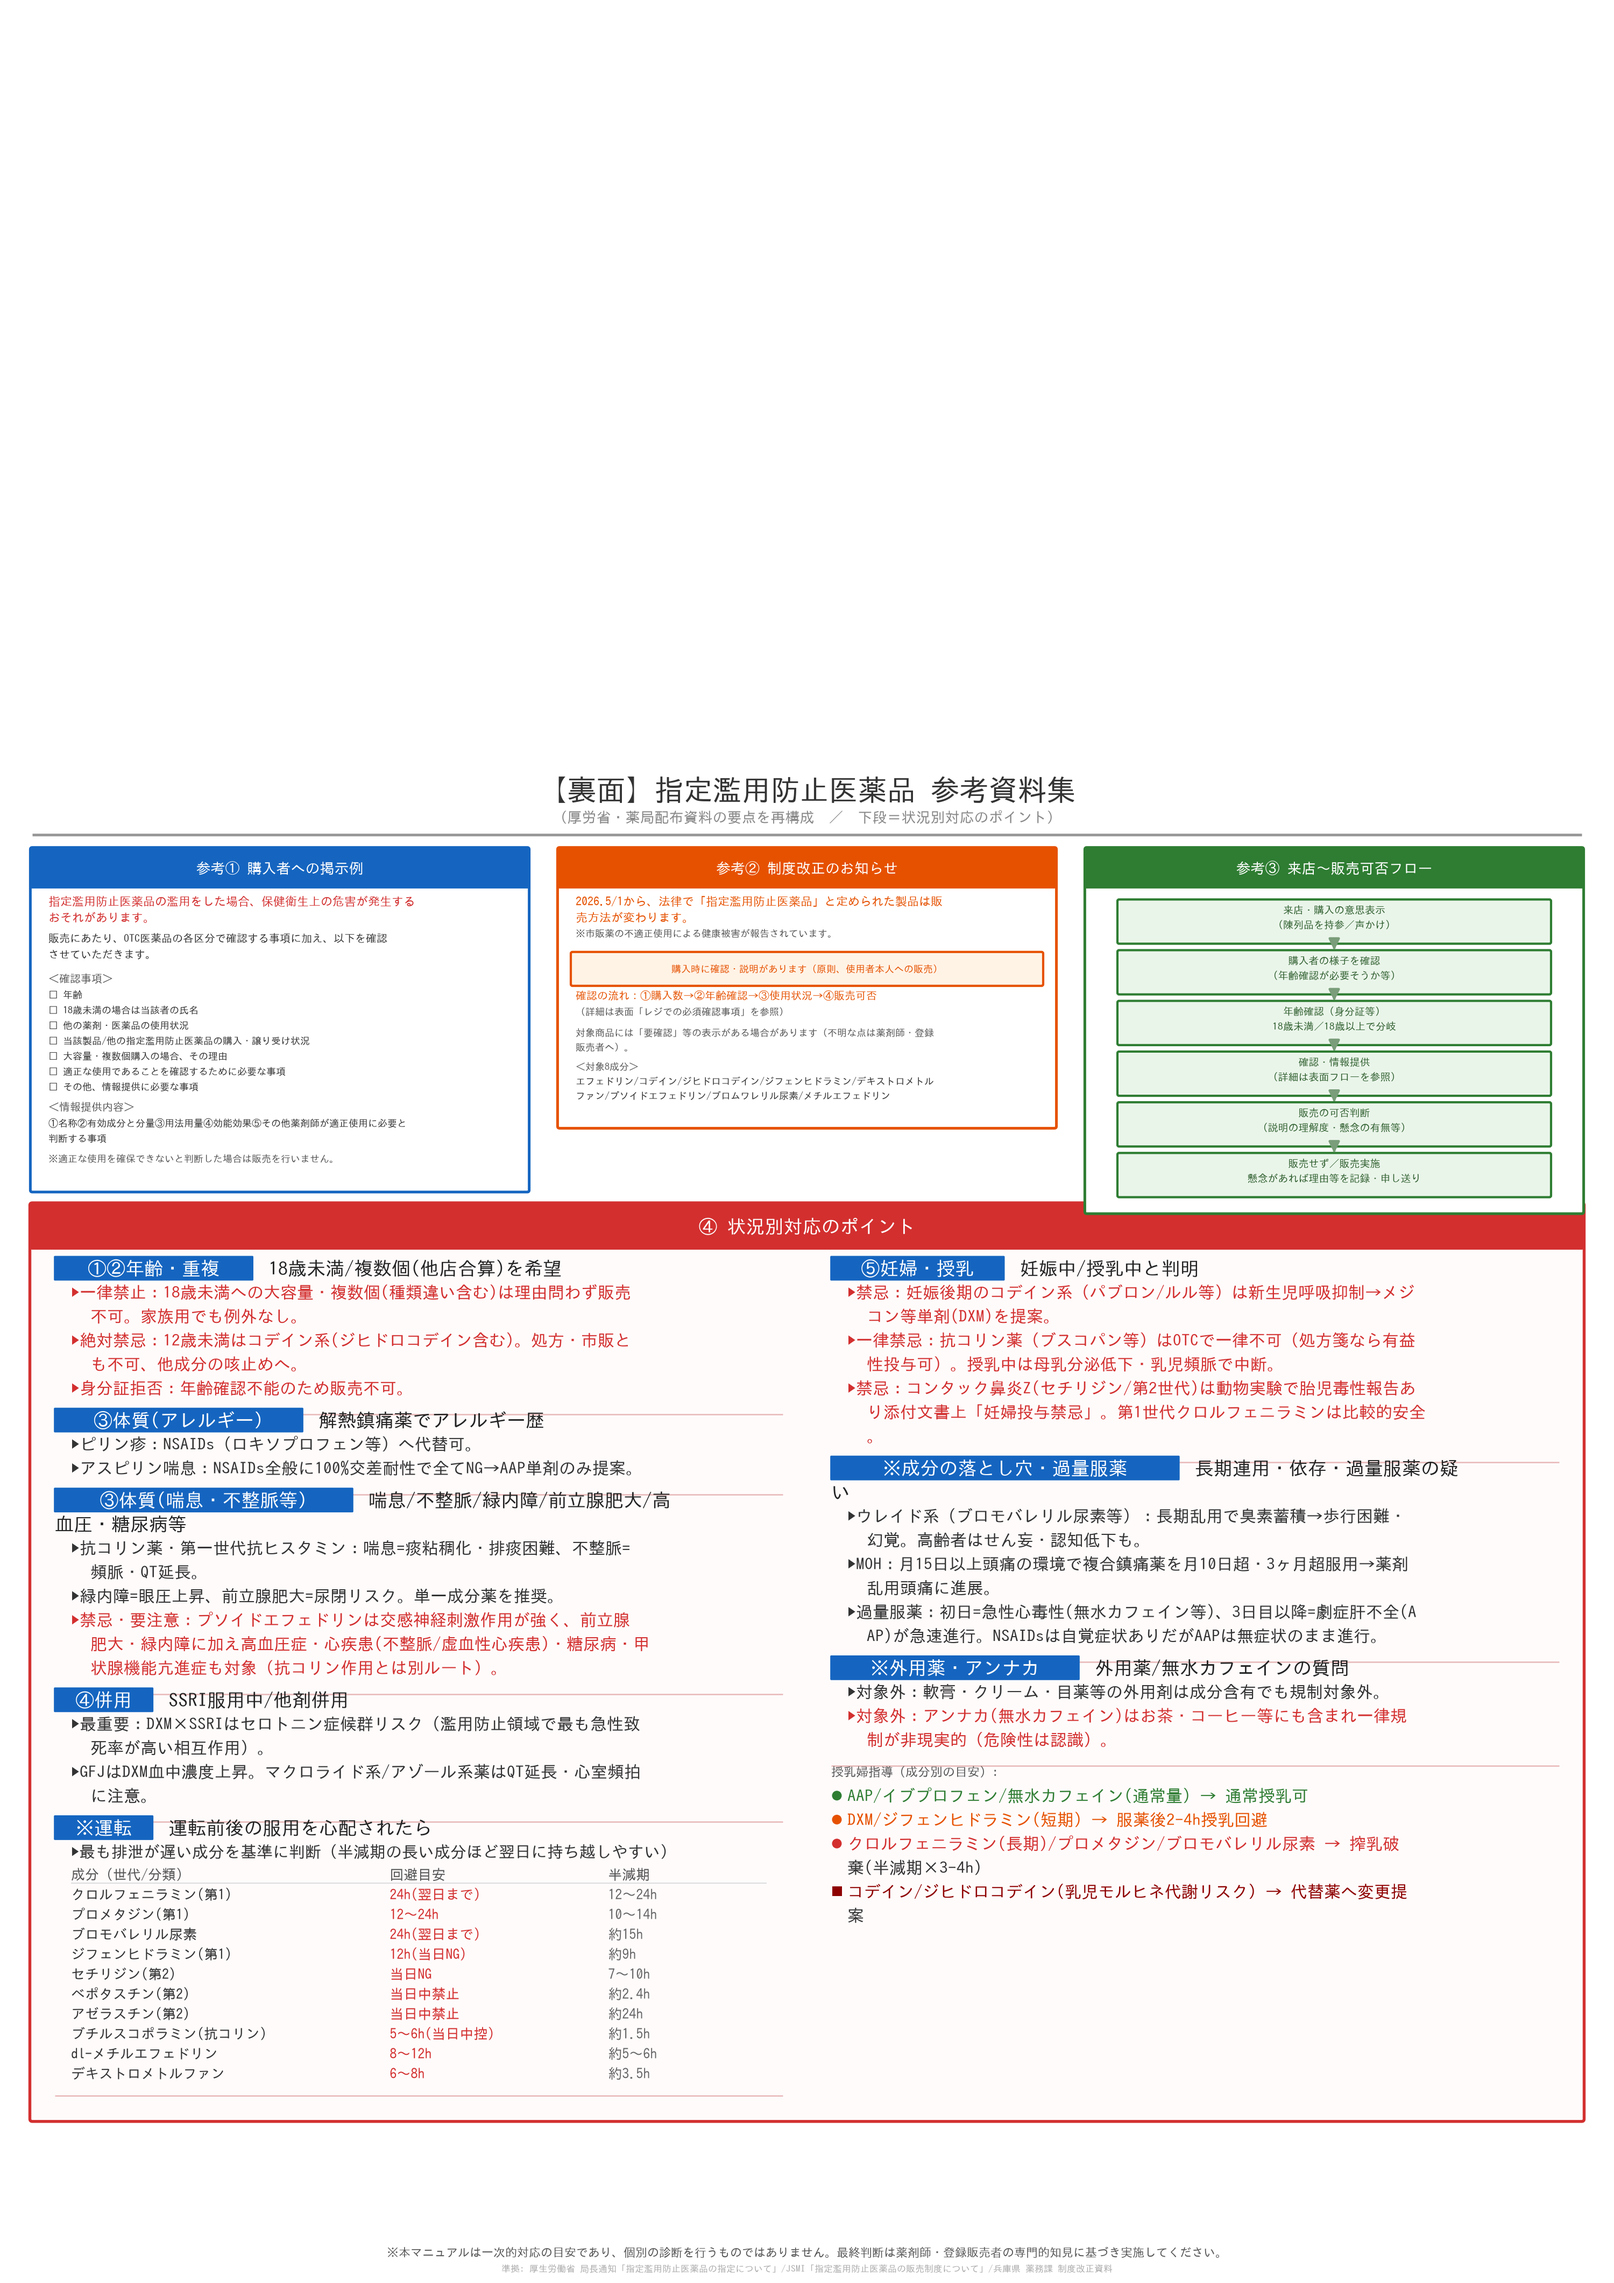
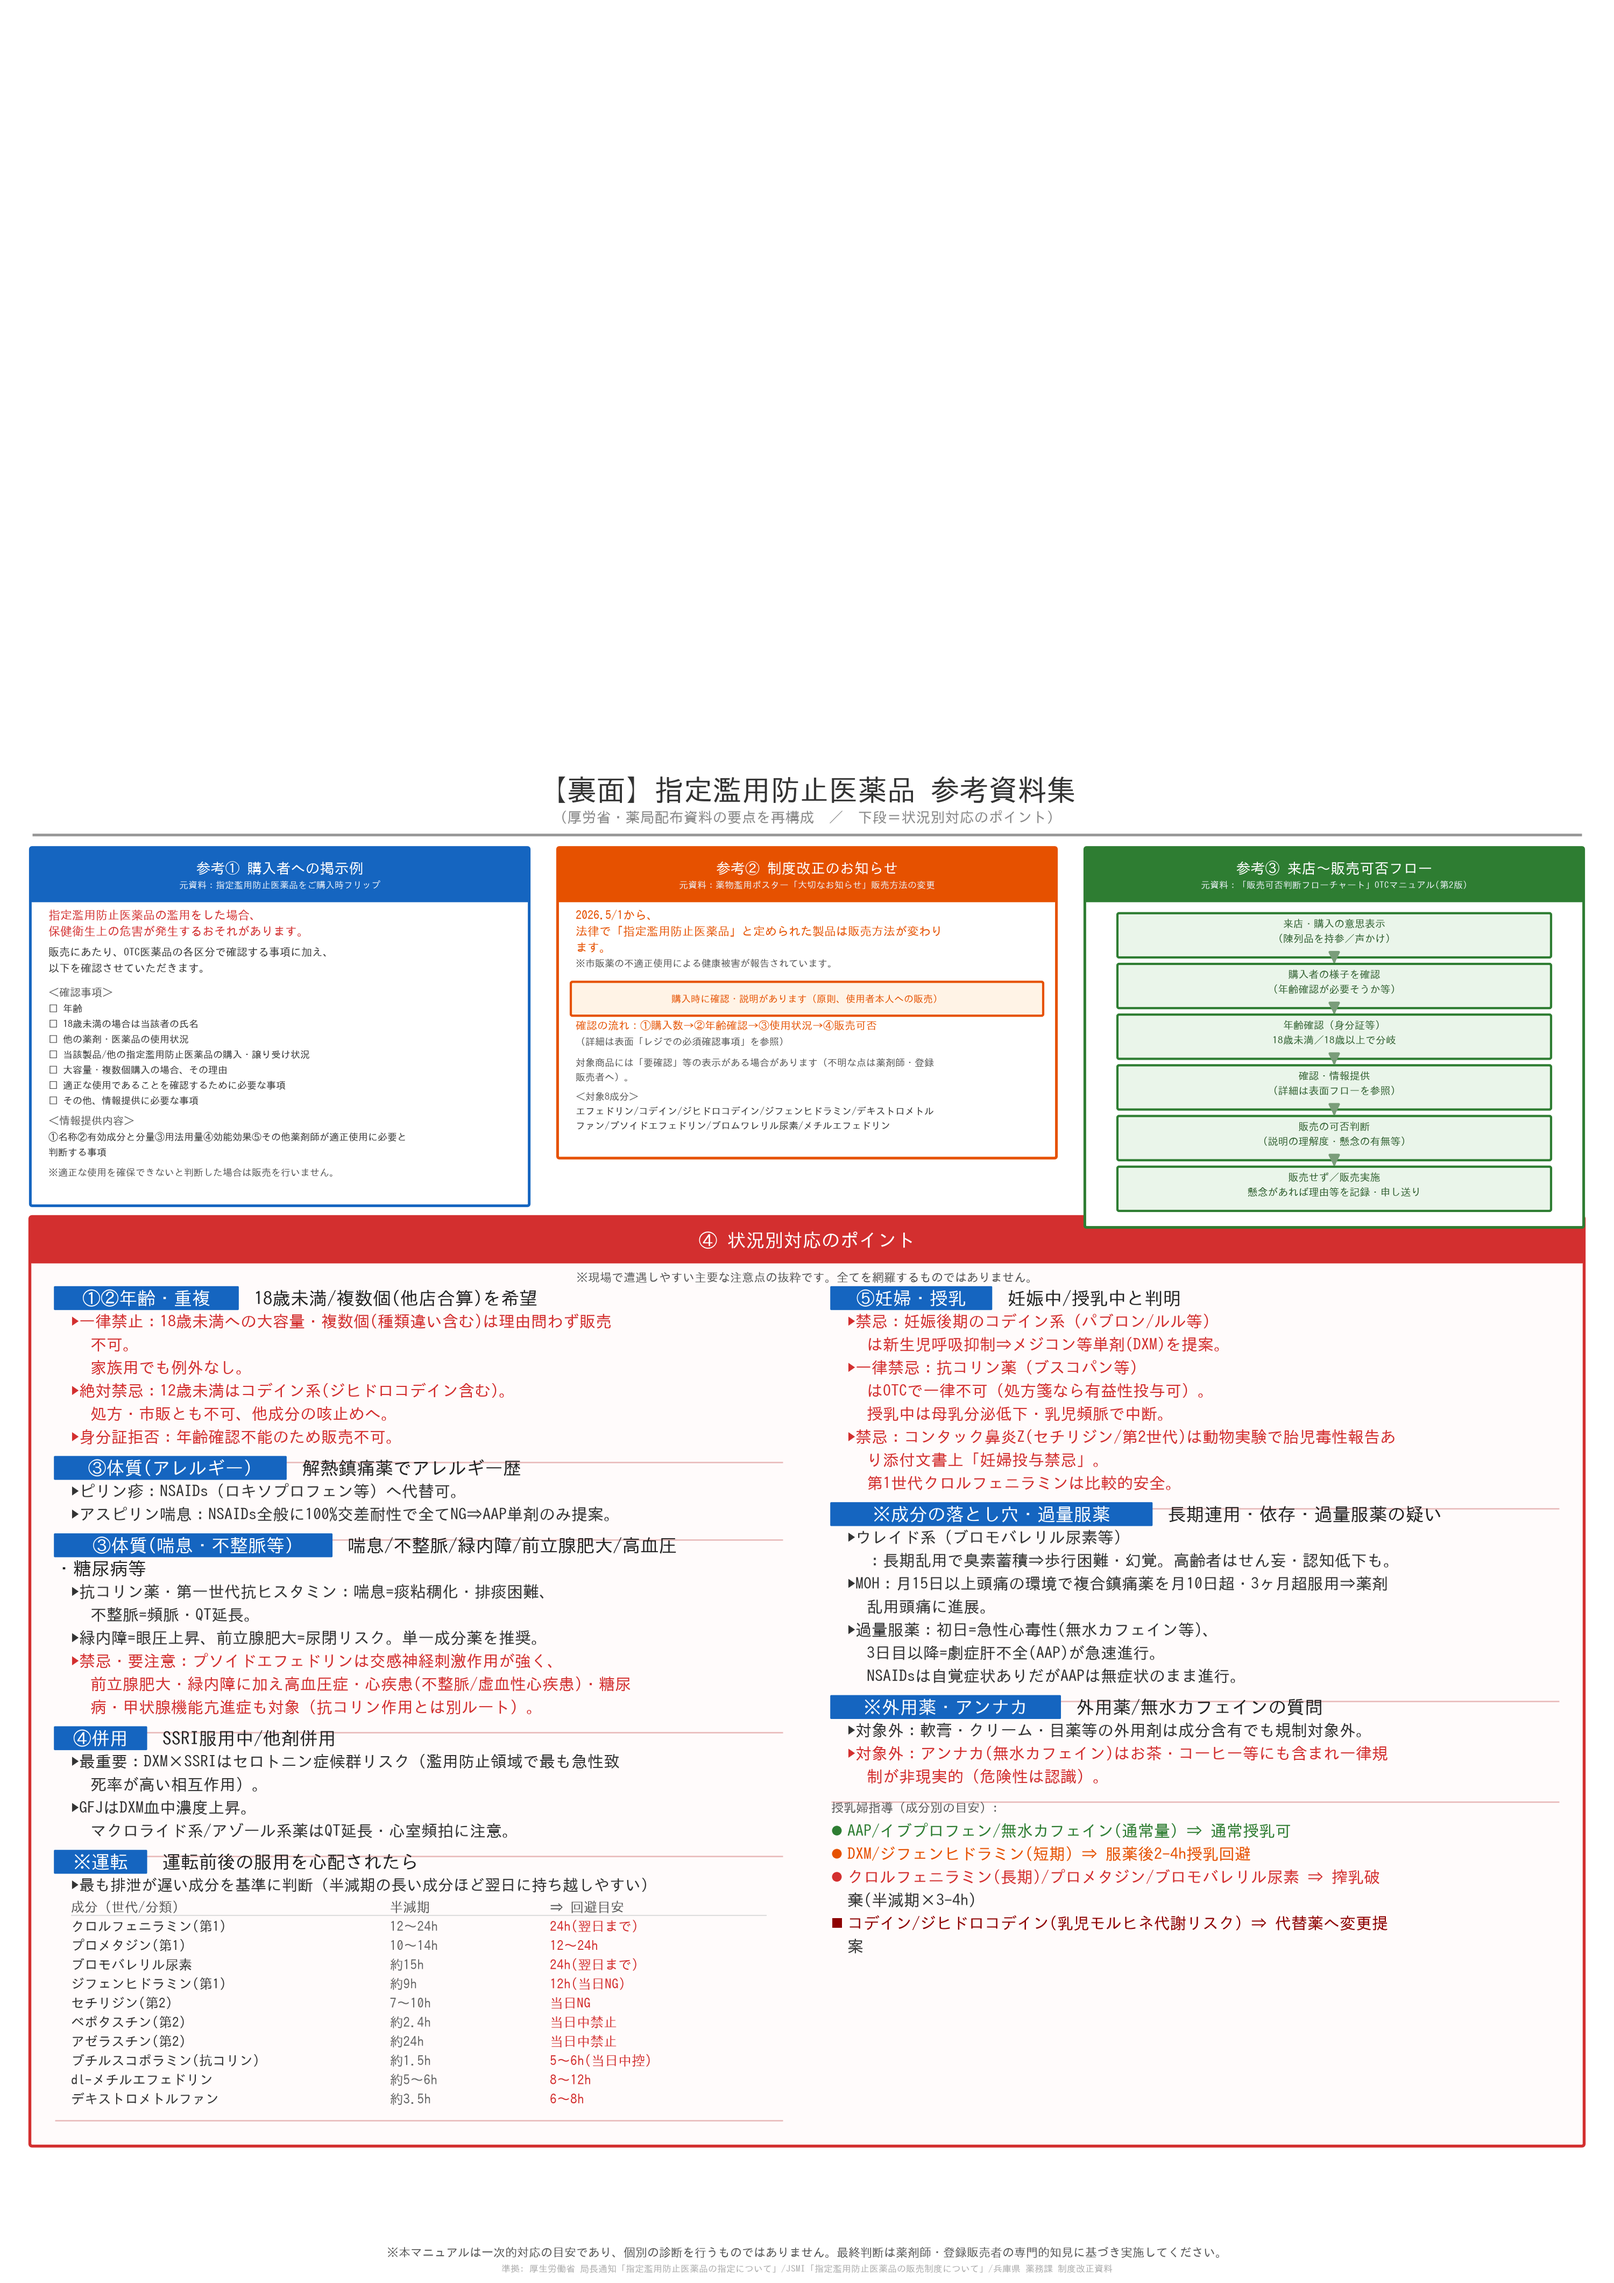
裏面: 折り返しの不自然な改行を修正し、視認性・出典表記を改善
- wrap_to_widthを句読点区切りのトークン単位に変更し、「。」だけが次行に
  孤立する不自然な改行を解消。「）」直後に「。」が続く場合の孤立も
  ポスト処理で統合
- 状況別対応のポイント内の行動指示の矢印を「→」から「⇒」に変更し強調
  （➡は和文フォントで欠字するため使用不可と判明）
- 運転回避テーブルの列順を「成分／半減期／⇒回避目安」に変更し、
  半減期から回避目安を導く流れを明確化
- 「主要な注意点の抜粋であり、全てを網羅するものではない」旨の注記を追加
- 3枚の参考資料パネルのタイトルバーに元資料の正式名称を副題として追加

Changed region(s): [[0.0, 0.3734, 0.992, 0.9335]]

diff --git a/vpc_v11_back.py b/vpc_v11_back.py
@@ -37,8 +37,8 @@ def text_width(text, fontsize, weight="normal", style="normal"):
     return x1 - x0
 
 
-def wrap_to_width(text, fontsize, max_width):
-    """1文字ずつ幅を測りながら、max_widthに収まるように行分割する"""
+def _split_chars(text, fontsize, max_width):
+    """1文字ずつ幅を測りながら折り返す（フォールバック用）"""
     lines, cur = [], ""
     for ch in text:
         trial = cur + ch
@@ -50,6 +50,49 @@ def wrap_to_width(text, fontsize, max_width):
     if cur:
         lines.append(cur)
     return lines
+
+
+def wrap_to_width(text, fontsize, max_width):
+    """句読点等の直後を優先的な改行位置とし、意味のまとまりで行分割する。
+    「。」だけが次行に孤立する等の不自然な折り返しを避けるため、1文字単位ではなく
+    句読点区切りのトークン単位で貪欲に詰める（トークル自体が幅を超える場合のみ
+    文字単位にフォールバック）。"""
+    tokens, cur_token = [], ""
+    for ch in text:
+        cur_token += ch
+        if ch in "。、）":
+            tokens.append(cur_token)
+            cur_token = ""
+    if cur_token:
+        tokens.append(cur_token)
+
+    lines, cur = [], ""
+    for token in tokens:
+        trial = cur + token
+        if cur and text_width(trial, fontsize) > max_width:
+            lines.append(cur)
+            cur = token
+        else:
+            cur = trial
+    if cur:
+        lines.append(cur)
+
+    final_lines = []
+    for line in lines:
+        if text_width(line, fontsize) <= max_width:
+            final_lines.append(line)
+        else:
+            final_lines.extend(_split_chars(line, fontsize, max_width))
+
+    # 「）」の直後に「。」が続く場合など、句読点だけの短い行が孤立することがあるため、
+    # そのような行は前の行へ統合する。
+    merged = []
+    for line in final_lines:
+        if merged and len(line) <= 2 and all(c in "。、）" for c in line):
+            merged[-1] += line
+        else:
+            merged.append(line)
+    return merged
 
 
 # --- 上部余白（約10cm）。物理A4縦(297mm)に対する比率で確保 ---
@@ -69,16 +112,23 @@ GRID_BOTTOM = 3.0
 GUTTER = 2.0
 
 
-def panel_frame(x, y_top, w, h, title, color):
-    """イラスト無し・テキストのみのパネル枠。細い色付きタイトルバーのみで無駄な余白を作らない。"""
+def panel_frame(x, y_top, w, h, title, color, subtitle=None):
+    """イラスト無し・テキストのみのパネル枠。色付きタイトルバー＋元資料名の副題（任意）。"""
     y_bottom = y_top - h
     ax.add_patch(patches.FancyBboxPatch((x, y_bottom), w, h, boxstyle="round,pad=0.12",
                                          linewidth=1.2, edgecolor=color, facecolor="white", zorder=1))
-    bar_h = 2.3
+    sub_fs = 4.0
+    sub_lines = wrap_to_width(subtitle, sub_fs, w - 2.0) if subtitle else []
+    bar_h = 2.3 + (0.85 * len(sub_lines) if sub_lines else 0)
     ax.add_patch(patches.FancyBboxPatch((x, y_top - bar_h), w, bar_h, boxstyle="round,pad=0.12",
                                          linewidth=0, facecolor=color, zorder=2))
-    ax.text(x + w / 2, y_top - bar_h / 2, title, fontsize=6.6, fontweight="bold",
+    title_y = y_top - (1.15 if sub_lines else bar_h / 2)
+    ax.text(x + w / 2, title_y, title, fontsize=6.6, fontweight="bold",
             ha="center", va="center", color="white", zorder=3)
+    sy = title_y - 1.05
+    for line in sub_lines:
+        ax.text(x + w / 2, sy, line, fontsize=sub_fs, ha="center", va="center", color="#eef4fb", zorder=3)
+        sy -= 0.85
     return y_top - bar_h - 0.9
 
 
@@ -88,7 +138,8 @@ def panel_frame(x, y_top, w, h, title, color):
 def draw_poster1(x, y_top, w, h):
     fs_h, fs_b, fs_s = 5.4, 4.7, 4.3
     lh = 1.0
-    y = panel_frame(x, y_top, w, h, "参考① 購入者への掲示例", BLUE)
+    y = panel_frame(x, y_top, w, h, "参考① 購入者への掲示例", BLUE,
+                     subtitle="元資料：指定濫用防止医薬品をご購入時フリップ")
 
     for line in wrap_to_width("指定濫用防止医薬品の濫用をした場合、保健衛生上の危害が発生するおそれがあります。", fs_h, w - 2.0):
         ax.text(x + 1.0, y, line, fontsize=fs_h, fontweight="bold", ha="left", va="center", color=RED)
@@ -133,7 +184,8 @@ def draw_poster1(x, y_top, w, h):
 def draw_poster2(x, y_top, w, h):
     fs_h, fs_b, fs_s = 5.4, 4.7, 4.3
     lh = 1.0
-    y = panel_frame(x, y_top, w, h, "参考② 制度改正のお知らせ", ORANGE)
+    y = panel_frame(x, y_top, w, h, "参考② 制度改正のお知らせ", ORANGE,
+                     subtitle="元資料：薬物濫用ポスター「大切なお知らせ」販売方法の変更")
 
     for line in wrap_to_width("2026.5/1から、法律で「指定濫用防止医薬品」と定められた製品は販売方法が変わります。",
                                fs_h, w - 2.0):
@@ -179,7 +231,8 @@ def draw_poster2(x, y_top, w, h):
 # 参考③ 来店〜販売可否フロー（簡略版・箱＋矢印で骨格のみ再現）
 # ==========================================================
 def draw_poster3_flow(x, y_top, w, h):
-    y = panel_frame(x, y_top, w, h, "参考③ 来店〜販売可否フロー", GREEN)
+    y = panel_frame(x, y_top, w, h, "参考③ 来店〜販売可否フロー", GREEN,
+                     subtitle="元資料：「販売可否判断フローチャート」OTCマニュアル(第2版)")
     fs = 4.5
     nodes = [
         ["来店・購入の意思表示", "（陳列品を持参／声かけ）"],
@@ -248,7 +301,7 @@ ROW1_BOTTOM = min(end1, end2, end3) - 0.6
 # 余った縦スペースを使ってフォントを拡大し、枠は実際の分量に合わせて後から
 # ぴったりのサイズで描く（無駄な余白を残さないため）。
 # ==========================================================
-FONT_SCALE = 1.4
+FONT_SCALE = 1.35
 TITLE_FS, BODY_FS, LINE_H = 6.0 * FONT_SCALE, 5.3 * FONT_SCALE, 1.06 * FONT_SCALE
 
 header_h = 2.6
@@ -259,7 +312,7 @@ Q_COL_GUTTER = 3.0
 Q_COL_W = (CONTENT_W_FULL - Q_COL_GUTTER) / 2
 QA_X = CONTENT_LEFT
 QB_X = CONTENT_LEFT + Q_COL_W + Q_COL_GUTTER
-cy_top = ROW1_BOTTOM - header_h - 1.3
+cy_top = ROW1_BOTTOM - header_h - 2.3
 
 
 def draw_dense_case(x, y, w, q_num, category, condition, bullets):
@@ -282,6 +335,7 @@ def draw_dense_case(x, y, w, q_num, category, condition, bullets):
         y -= LINE_H
 
     for bullet in bullets:
+        bullet = bullet.replace("→", "⇒")  # 行動指示の矢印を強調（➡は和文フォントで欠字するため⇒を使用）
         is_alert = ("禁忌" in bullet) or ("一律" in bullet) or ("不可" in bullet)
         color = RED if is_alert else "#333333"
         weight = "bold" if is_alert else "normal"
@@ -369,16 +423,17 @@ def draw_driving_table(x, y, w, rows):
     y -= LINE_H * 0.95
     tbl_fs = 4.5 * FONT_SCALE
     tbl_lh = 0.88 * FONT_SCALE
-    col1_x, col2_x, col3_x = x + 1.0, x + w * 0.46, x + w * 0.76
+    # 「半減期→回避目安」の因果関係が伝わるよう、半減期を先に置く
+    col1_x, col2_x, col3_x = x + 1.0, x + w * 0.46, x + w * 0.68
     ax.text(col1_x, y, "成分（世代/分類）", fontsize=tbl_fs, fontweight="bold", ha="left", va="center", color=GRAY)
-    ax.text(col2_x, y, "回避目安", fontsize=tbl_fs, fontweight="bold", ha="left", va="center", color=GRAY)
-    ax.text(col3_x, y, "半減期", fontsize=tbl_fs, fontweight="bold", ha="left", va="center", color=GRAY)
+    ax.text(col2_x, y, "半減期", fontsize=tbl_fs, fontweight="bold", ha="left", va="center", color=GRAY)
+    ax.text(col3_x, y, "⇒ 回避目安", fontsize=tbl_fs, fontweight="bold", ha="left", va="center", color=GRAY)
     y -= tbl_lh
     ax.hlines(y + tbl_lh * 0.55, x + 1.0, x + w - 1.0, colors="#dddddd", linewidth=0.5)
     for name, avoid, half in rows:
         ax.text(col1_x, y, name, fontsize=tbl_fs, ha="left", va="center", color="#333333")
-        ax.text(col2_x, y, avoid, fontsize=tbl_fs, fontweight="bold", ha="left", va="center", color=RED)
-        ax.text(col3_x, y, half, fontsize=tbl_fs, ha="left", va="center", color="#666666")
+        ax.text(col2_x, y, half, fontsize=tbl_fs, ha="left", va="center", color="#666666")
+        ax.text(col3_x, y, avoid, fontsize=tbl_fs, fontweight="bold", ha="left", va="center", color=RED)
         y -= tbl_lh
     y -= 0.15
     ax.hlines(y, x, x + w, colors="#e8b8b8", linewidth=0.6)
@@ -399,7 +454,7 @@ def draw_nursing(x, y, w):
             ax.add_patch(patches.Circle((x + 0.35, y), 0.3, facecolor=mcolor, edgecolor="none", zorder=3))
         else:
             ax.add_patch(patches.Rectangle((x + 0.05, y - 0.3), 0.6, 0.6, facecolor=mcolor, edgecolor="none", zorder=3))
-        wrapped = wrap_to_width(f"{ingr} → {tag}", BODY_FS, w - 1.6)
+        wrapped = wrap_to_width(f"{ingr} ⇒ {tag}", BODY_FS, w - 1.6)
         for wi, wline in enumerate(wrapped):
             ax.text(x + 1.0, y, wline, fontsize=BODY_FS, fontweight="bold" if wi == 0 else "normal",
                     ha="left", va="center", color=mcolor if wi == 0 else "#333333")
@@ -427,6 +482,9 @@ ax.add_patch(patches.FancyBboxPatch((GRID_LEFT, ROW1_BOTTOM - header_h), GRID_RI
                                      boxstyle="round,pad=0.15", linewidth=0, facecolor=RED, zorder=0.5))
 ax.text(LOGICAL_W / 2, ROW1_BOTTOM - header_h / 2, "④ 状況別対応のポイント", fontsize=8.4, fontweight="bold",
         ha="center", va="center", color="white", zorder=3)
+ax.text(LOGICAL_W / 2, ROW1_BOTTOM - header_h - 1.0,
+        "※現場で遭遇しやすい主要な注意点の抜粋です。全てを網羅するものではありません。",
+        fontsize=5.4, fontstyle="italic", ha="center", va="center", color=GRAY, zorder=3)
 
 # --- 下部免責・出典 ---
 ax.text(LOGICAL_W / 2, 1.9, "※本マニュアルは一次的対応の目安であり、個別の診断を行うものではありません。最終判断は薬剤師・登録販売者の専門的知見に基づき実施してください。",
